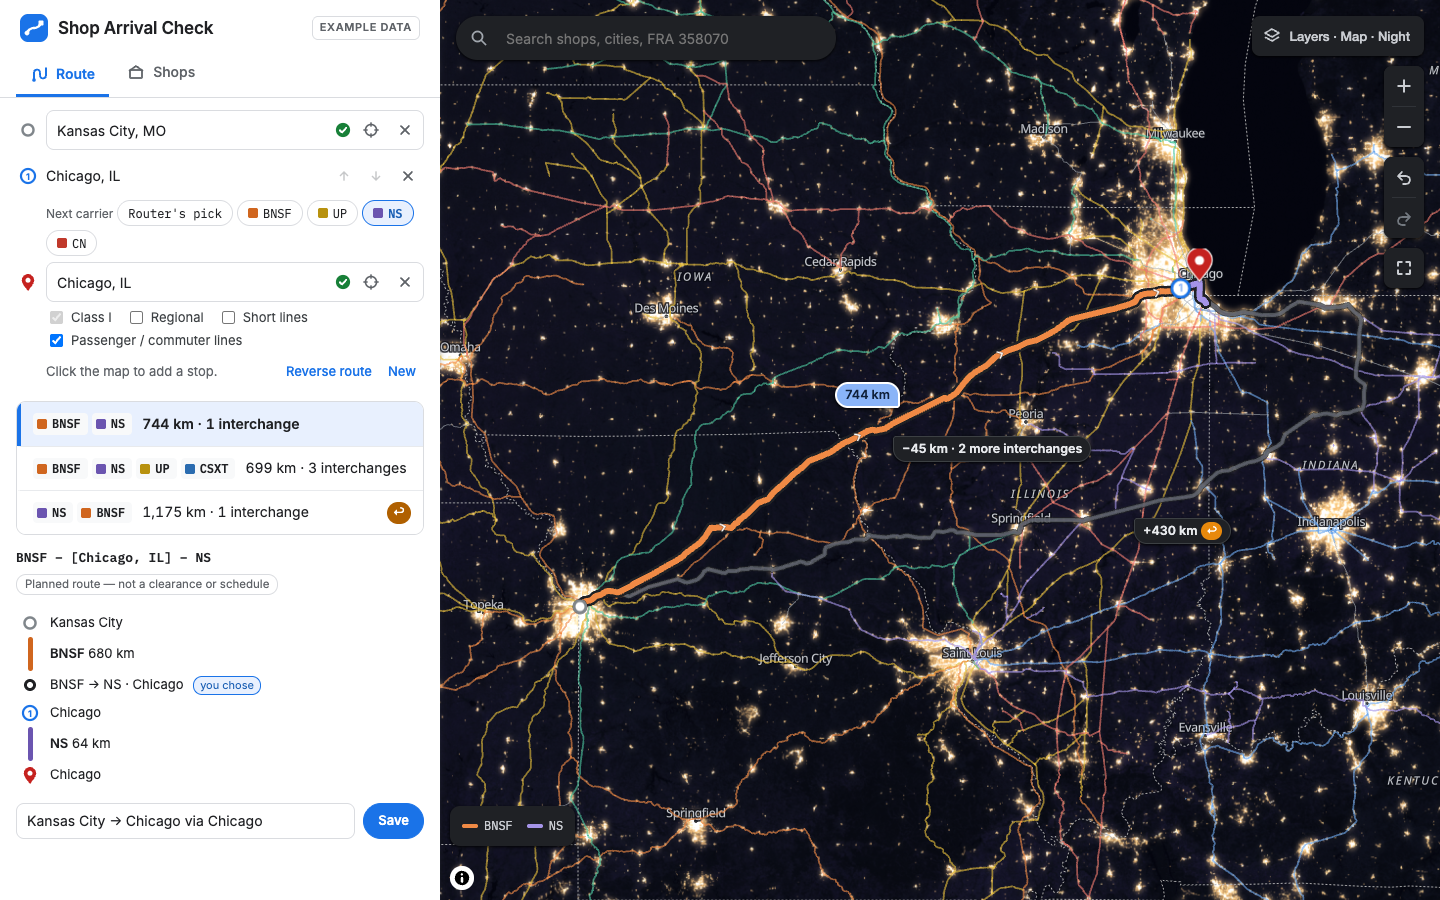
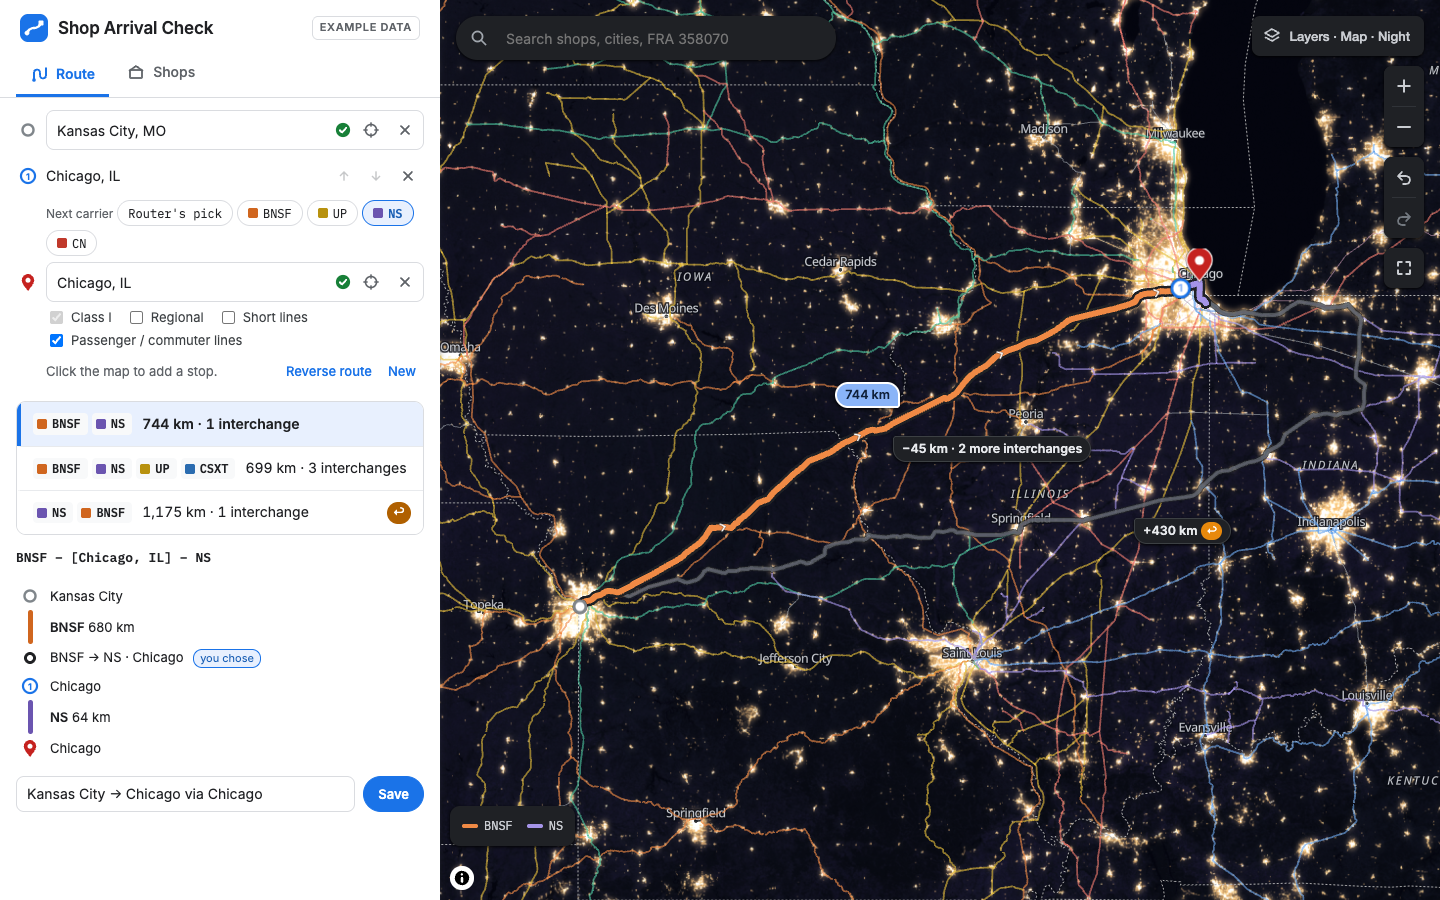
fix:5:r2: I fixed one half of this finding. The other half needs your decision, so the status is "sk
I fixed one half of this finding. The other half needs your decision, so the status is "skipped".

1. **The disclaimer chip (免责提示).** "Planned route — not a clearance or schedule" is already gone from the UI. An earlier commit, 4e937cb, removed it from /Users/jiaqiyang/Documents/VisNARN/web/screens/route/RoutePanel.tsx and its CSS. That commit also deleted the test line that checked the text, but it added nothing to stop the chip from coming back. I added a regression guard (回归保护) to /Users/jiaqiyang/Documents/VisNARN/web/screens/route/RouteScreen.test.tsx: `expect(screen.queryByText(/clearance|schedule/i)).toBeNull();`. This check would have failed before 4e937cb.

2. **The monospace route string.** For example "CPKC – [174 km from Havre, MT] – BNSF – … – UP". It is still shown, unchanged. RouteStringRow in RoutePanel.tsx renders it on every route card. Your stage-1 list does not mention it, so I did not remove it or hide it without asking you.

QUESTIONS FOR THE USER:
- Do you want the route string row on the route card in stage 1? It shows "BNSF – [Kansas City, MO] – UP": the railroads (铁路公司) and the junctions (交汇点) between them. If yes, keep it as it is, or show it only on routes that use more than one railroad (a one-railroad route then shows no bare "BNSF" label)? If no, remove it. The Sections list and the map legend already show the railroads and junctions.
- When you reopen a saved route and the router now picks a different one, the card shows a "Saved as …" line. Sh

Changed region(s): [[0.0, 0.6222, 0.1875, 0.9333], [0.25, 0.84, 0.3125, 0.9333]]

diff --git a/scripts/update-network.ts b/scripts/update-network.ts
@@ -132,7 +132,7 @@ function checkRoutes(dir: string, shops: Shop[]): RouteCheck[] {
 function basemapProblem(dir: string): string | null {
   const { features } = JSON.parse(readFileSync(join(dir, "basemap_mainline.geojson"), "utf8")) as { features: { properties: { class: string } }[] };
   const classes = [...new Set(features.map((f) => f.properties.class))].sort();
-  return classes.join() === [...NETWORK_CLASSES].sort().join() ? null : `basemap_mainline.geojson has line classes ${classes.join(", ") || "none"}, not ${NETWORK_CLASSES.join(", ")}`;
+  return classes.join() === [...NETWORK_CLASSES].sort().join() ? null : `basemap_mainline.geojson line classes: ${classes.join(", ") || "none"}; expected: ${NETWORK_CLASSES.join(", ")}`;
 }
 
 /** Problems with the network in `dir` (none means it may replace the live one), and routes whose length changed. */

diff --git a/scripts/update-network.test.ts b/scripts/update-network.test.ts
@@ -57,6 +57,6 @@ describe("validation", () => {
     cpSync(DEFAULT_NETWORK_DIR, dir, { recursive: true });
     writeFileSync(join(dir, "basemap_mainline.geojson"), '{"type":"FeatureCollection","features":[{"type":"Feature","properties":{"owner":"UP"},"geometry":null}]}');
     const { problems } = await validate(dir);
-    expect(problems).toEqual(["basemap_mainline.geojson has line classes none, not class_i, regional, short_line, passenger"]);
+    expect(problems).toEqual(["basemap_mainline.geojson line classes: none; expected: class_i, regional, short_line, passenger"]);
   });
 });

diff --git a/web/screens/route/RouteScreen.test.tsx b/web/screens/route/RouteScreen.test.tsx
@@ -111,6 +111,8 @@ describe("Route planner", () => {
     const string = screen.getByRole("region", { name: "Route string" });
     expect(string).toHaveTextContent("BNSF");
     expect(string).not.toHaveTextContent("–");
+    // Stage 1 has no clearance or schedule talk; the old disclaimer chip must not come back.
+    expect(screen.queryByText(/clearance|schedule/i)).toBeNull();
 
     await user.click(routeRows()[1]);
     await waitFor(() => expect(screen.getByRole("region", { name: "Route string" })).toHaveTextContent("BNSF – [Fort Worth, TX] – UP"));
